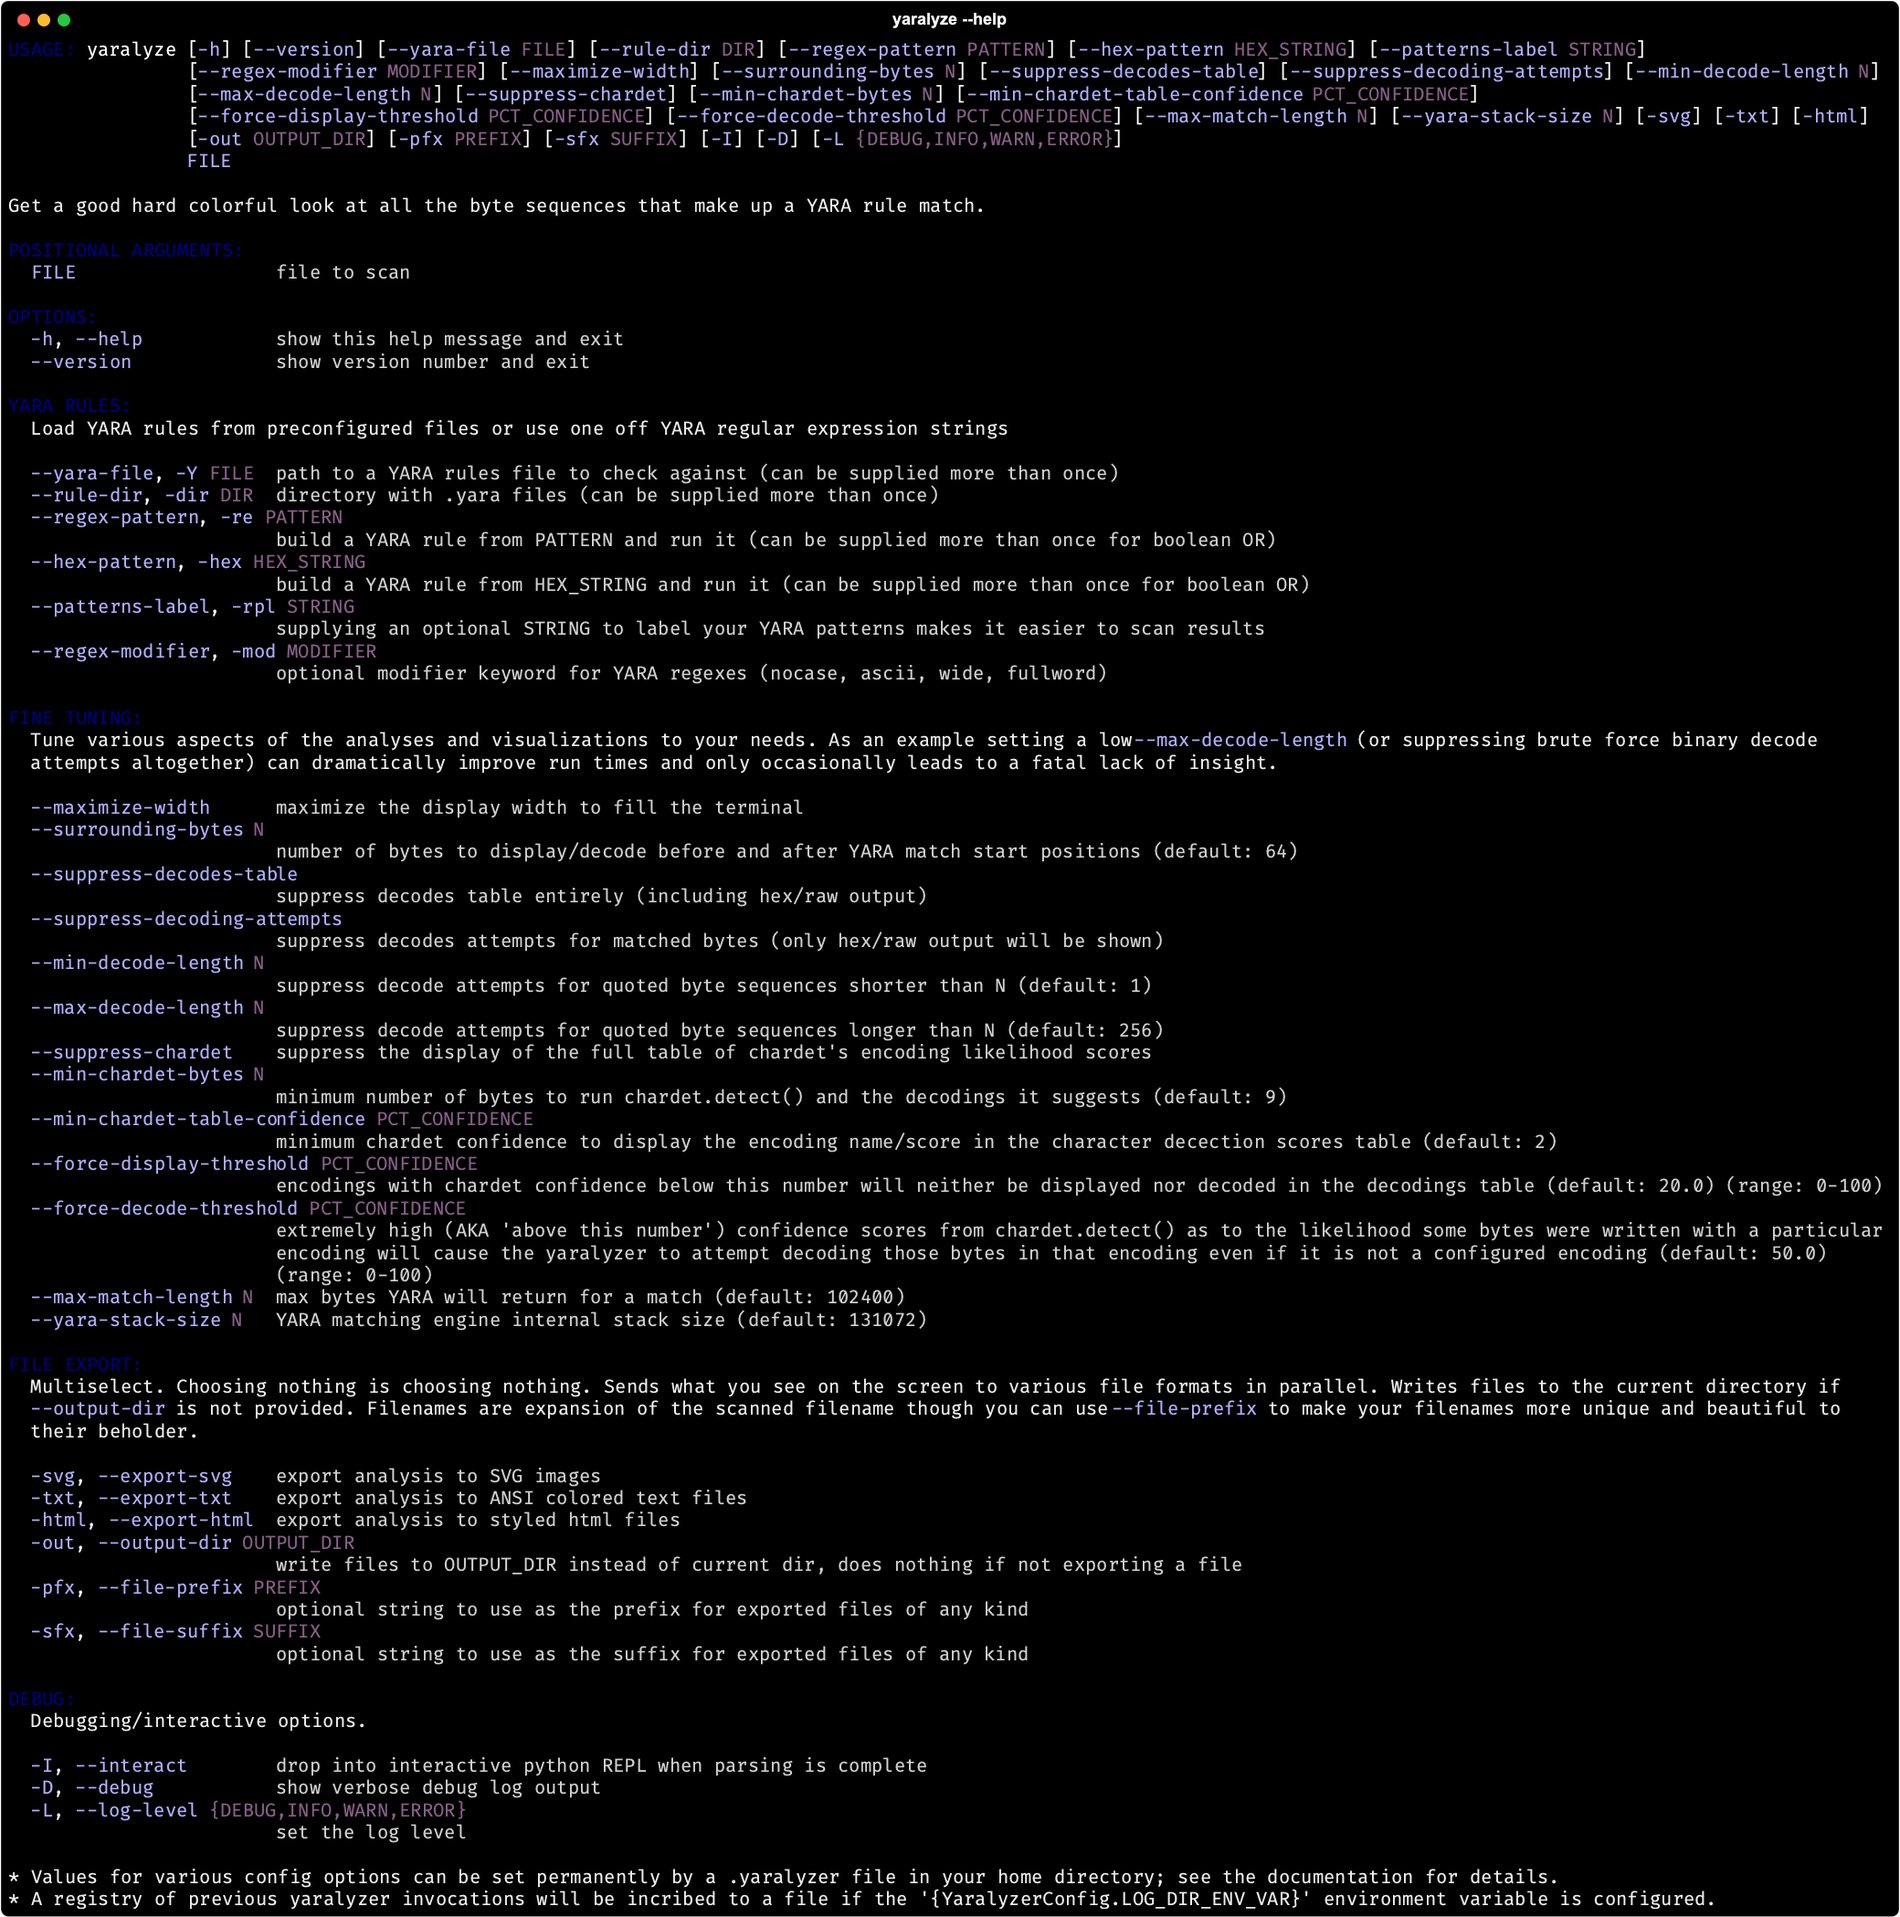
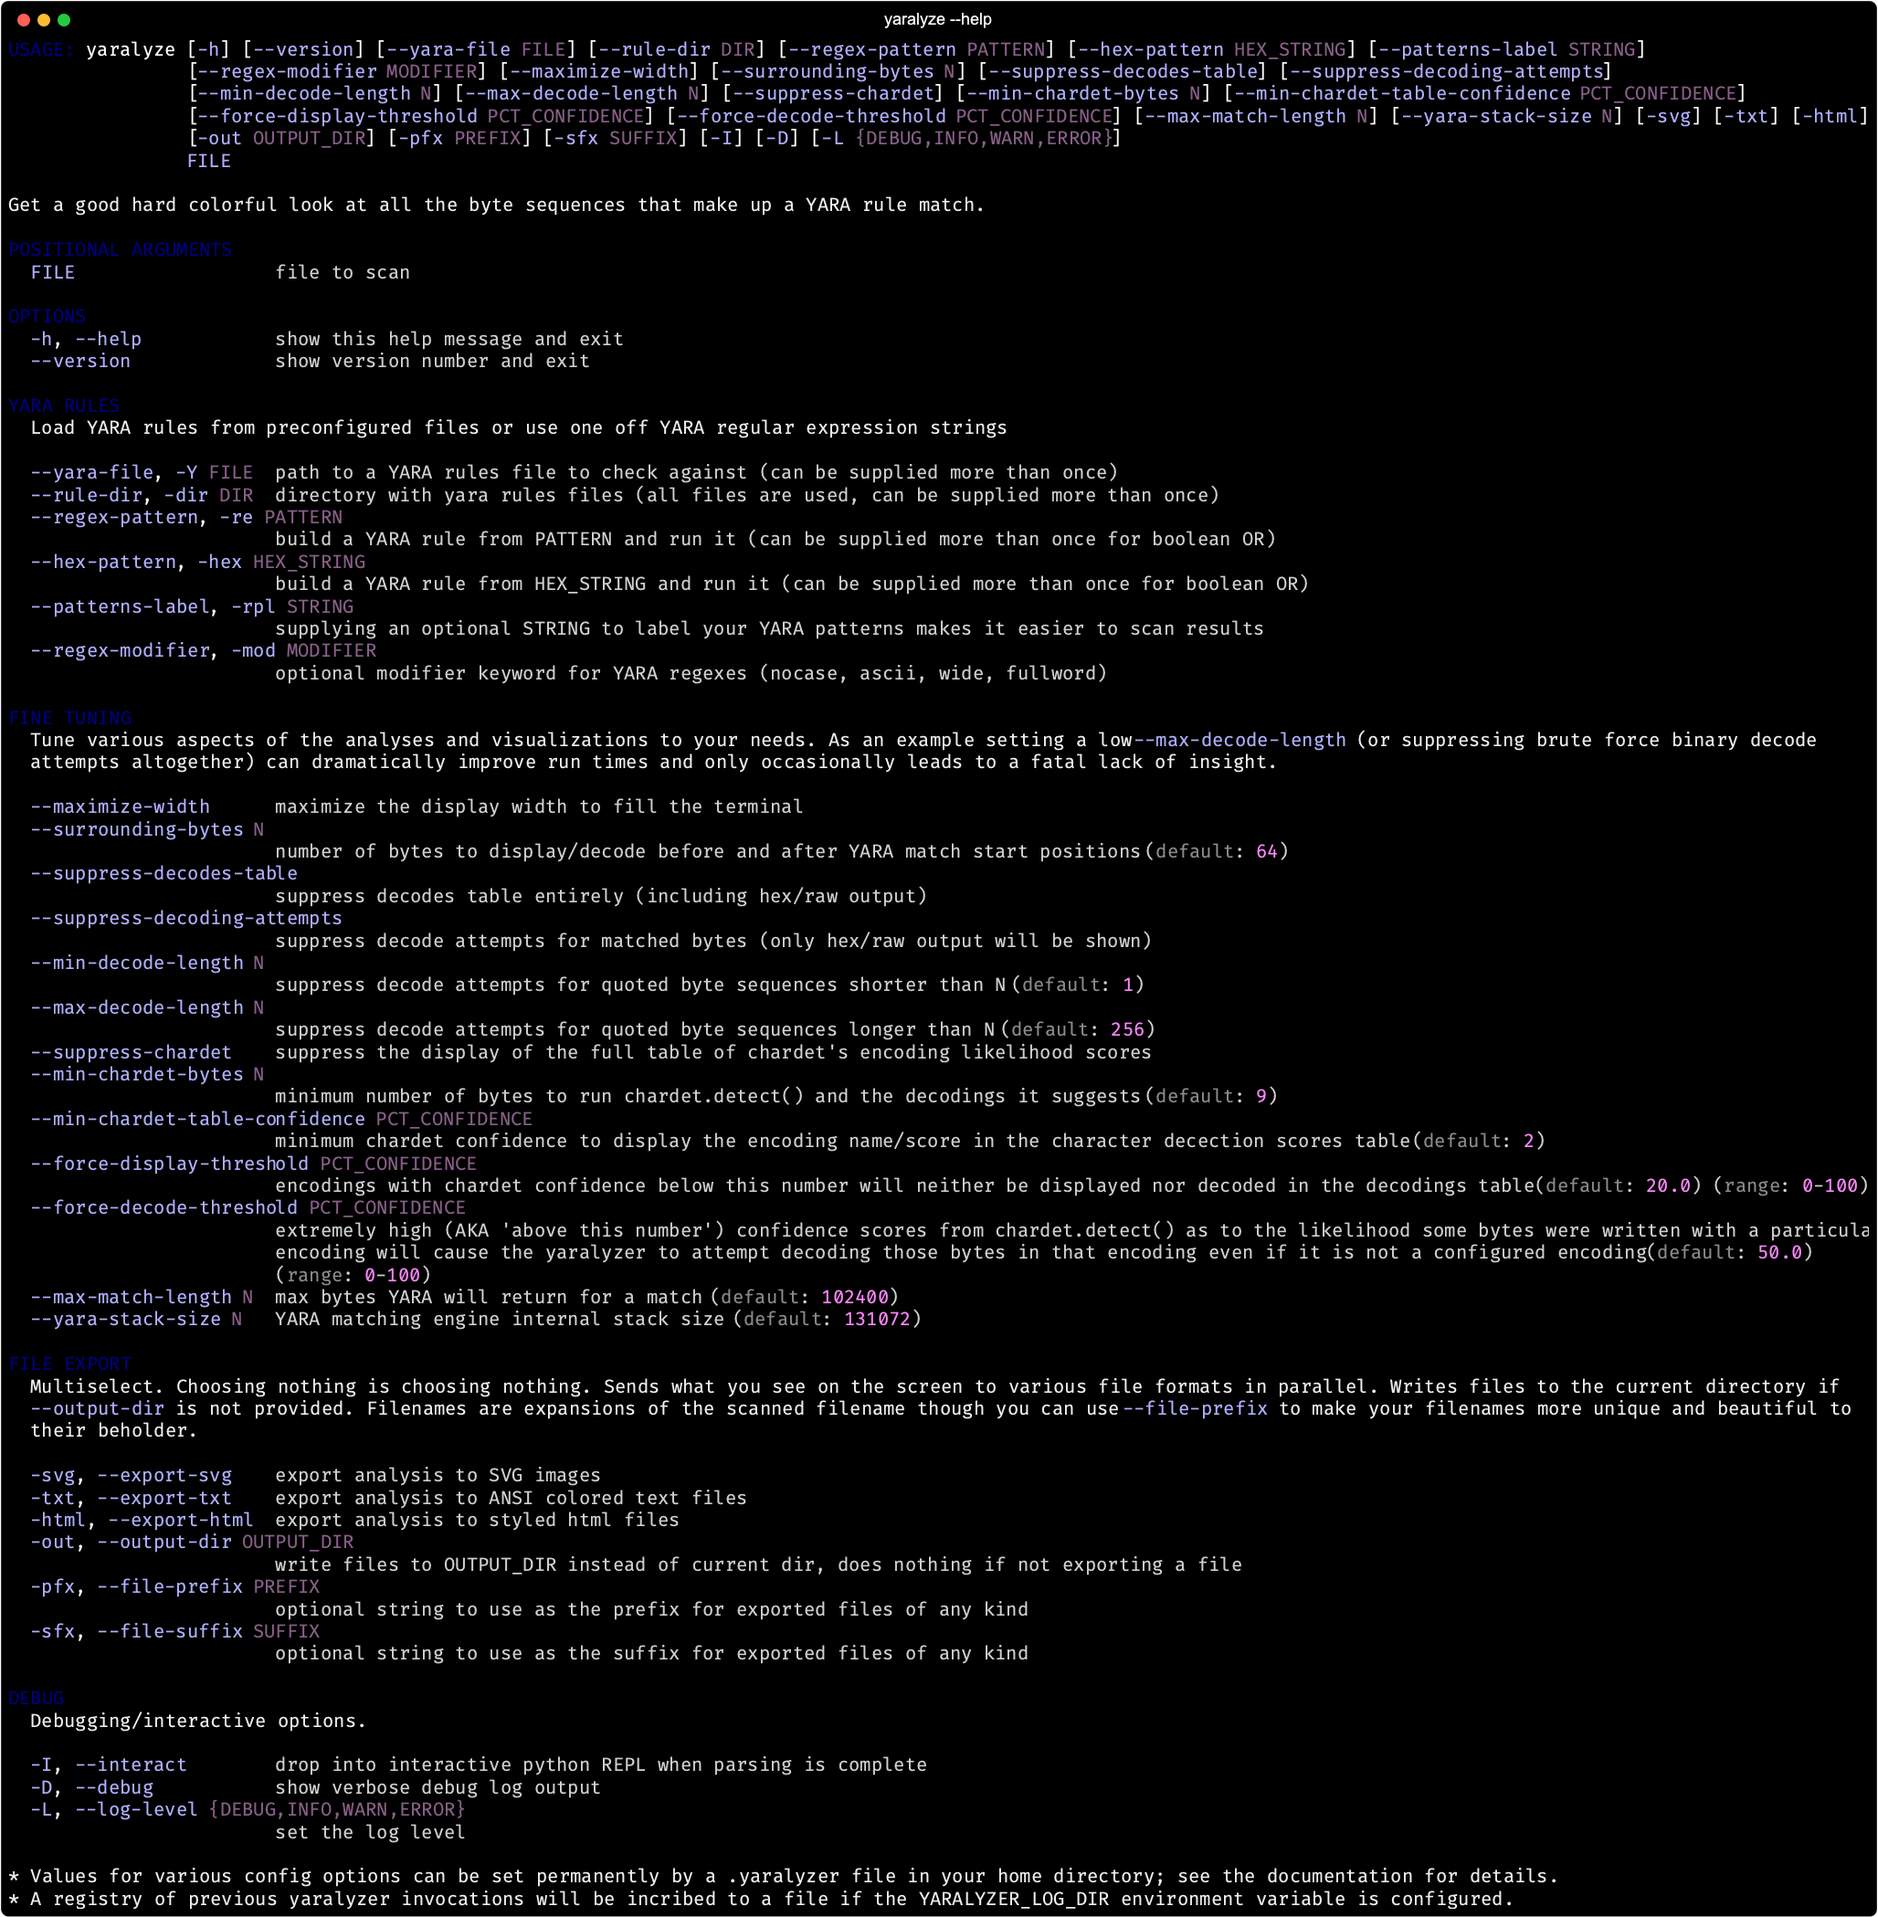
Fix help message

diff --git a/yaralyzer/util/argument_parser.py b/yaralyzer/util/argument_parser.py
@@ -29,7 +29,7 @@ DESCRIPTION = "Get a good hard colorful look at all the byte sequences that make
 EPILOG = "* Values for various config options can be set permanently by a .yaralyzer file in your home directory; " + \
          "see the documentation for details.\n" + \
          f"* A registry of previous yaralyzer invocations will be incribed to a file if the " + \
-         "'{YaralyzerConfig.LOG_DIR_ENV_VAR}' environment variable is configured."
+         f"{YaralyzerConfig.LOG_DIR_ENV_VAR} environment variable is configured."
 
 
 # Positional args, version, help, etc
@@ -95,7 +95,7 @@ tuning.add_argument('--suppress-decodes-table', action='store_true',
                     help='suppress decodes table entirely (including hex/raw output)')
 
 tuning.add_argument('--suppress-decoding-attempts', action='store_true',
-                    help='suppress decodes attempts for matched bytes (only hex/raw output will be shown)')
+                    help='suppress decode attempts for matched bytes (only hex/raw output will be shown)')
 
 tuning.add_argument('--min-decode-length',
                     help='suppress decode attempts for quoted byte sequences shorter than N',
